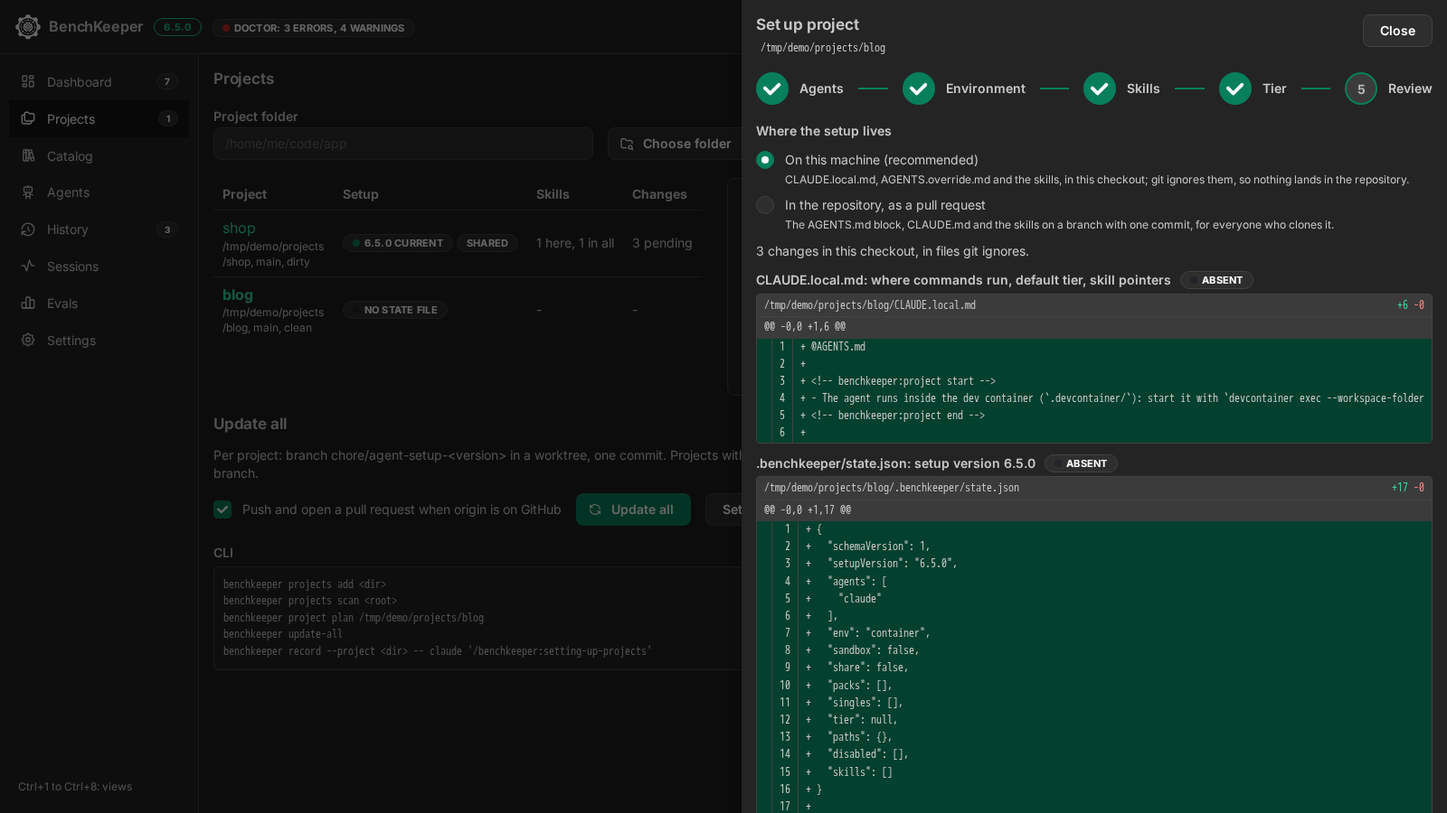
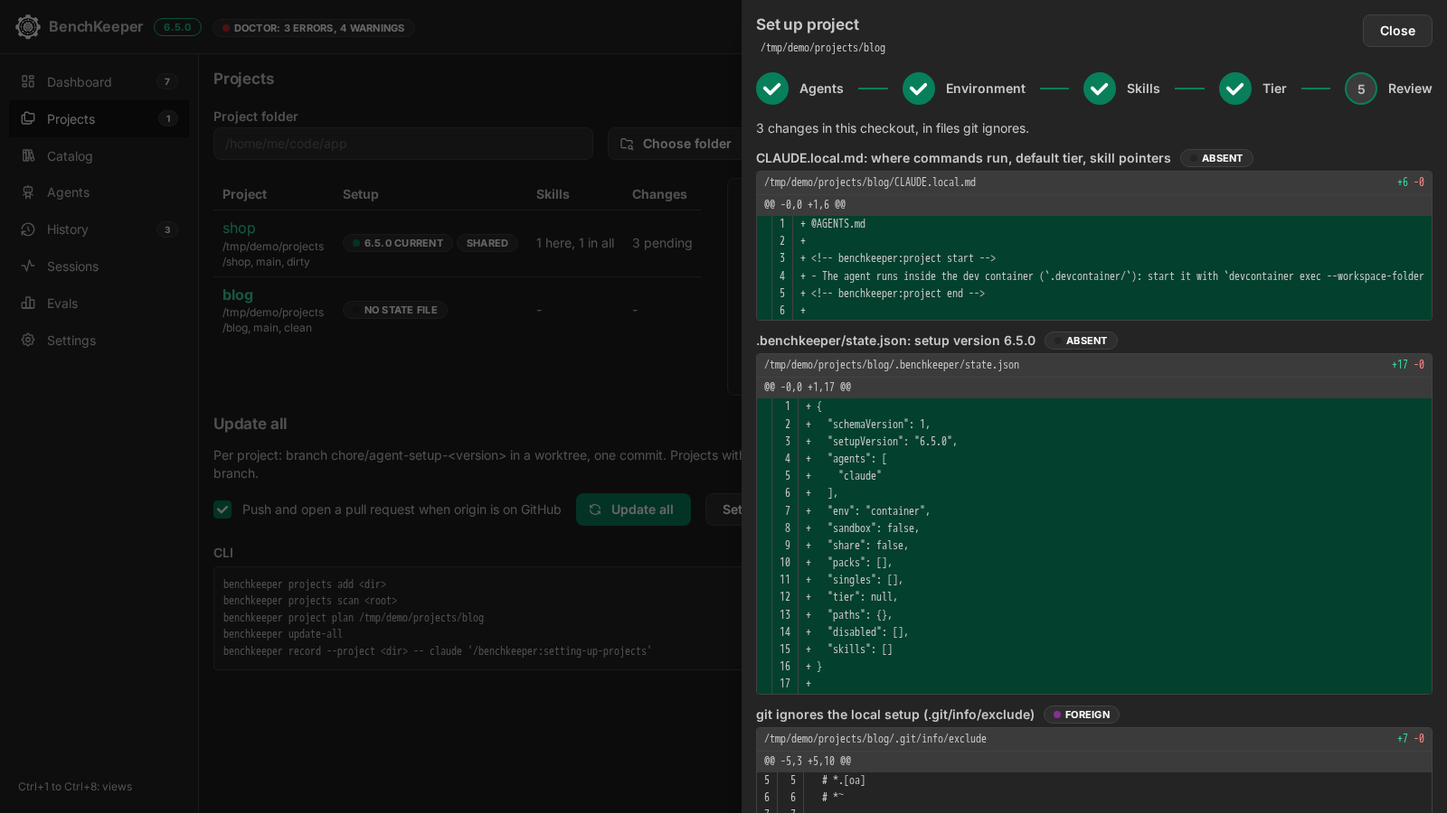
feat(app): confirmations, undo of local runs, setup order and retry (#179)
* feat(app): confirmations, undo of local runs, setup order and retry

Update all asks first when it opens pull requests, importing a pack over an
own pack asks and keeps the old file in the backup, a local Update all run
can be undone, Fix everything can stop after the current project, the
project setup asks where the setup lives first and says why Next is off,
a failed load offers Try again, the dashboard flow shows a failed check.

Refs #157

Assisted-by: generative AI

* fix(app): review findings for confirmations and pack backup

The old pack file is copied to the backup before the new one is written, the
Update all dialog says up to N, the setup keeps the user's environment
choice and says so, the pack file read reports its error, the stop flag is
read once per project.

Refs #157

Assisted-by: generative AI

Changed region(s): [[0.5, 0.1556, 1.0, 1.0]]

diff --git a/app/ui/views.jsx b/app/ui/views.jsx
@@ -1,11 +1,12 @@
 import { BarChart, LineChart } from '@mantine/charts';
-import { Anchor, Badge, Box, Button, Checkbox, Code, Drawer, FileButton, Grid, Group, List, NavLink, Paper, Progress, RingProgress, Select, Stack, Switch, Table, Text, TextInput, Timeline, Title, useComputedColorScheme } from '@mantine/core';
+import { Anchor, Badge, Box, Button, Checkbox, Code, Drawer, FileButton, Grid, Group, List, Modal, NavLink, Paper, Progress, RingProgress, Select, Stack, Switch, Table, Text, TextInput, Timeline, Title, useComputedColorScheme } from '@mantine/core';
 import { IconAdjustments, IconDeviceFloppy, IconDownload, IconFolderOpen, IconFolderSearch, IconFolders, IconListCheck, IconListNumbers, IconPackage, IconPlayerPlay, IconPlus, IconRefresh, IconTrash, IconUpload } from '@tabler/icons-react';
 import { useEffect, useRef, useState } from 'react';
 import { api } from './api.js';
 import { CancelJob, Cli, Plan, Section, StateBadge, useJob } from './parts.jsx';
 import { RunPanel, StatusIcon, note, runTitle, when } from './run.jsx';
-import { DoctorTable, FixEverythingButton, UpdateResults, updateProjects } from './fix.jsx';
+import { DoctorTable, FixEverythingButton, UpdateResults } from './fix.jsx';
+import { updateProjects } from './update.js';
 import { OneRunButtons } from './onerun.jsx';
 import { ProjectSetup } from './setup.jsx';
 import { Dot, Loading, MOD, Note, RANK, STATE_COLOR, SplitView, download, go, groupBy, href, icon, useApi } from './shell.jsx';
@@ -100,9 +101,9 @@ export function Dashboard({ overview, doctor, history, params }) {
   const behind = o?.projects.filter((p) => p.setupVersion !== o.version).length ?? 0;
   const nodes = [
     { label: 'Agents detected', value: `${agents.length} installed`, status: agents.length ? 'ok' : 'problem', href: href('agents') },
-    { label: 'Global setup', value: inv.data ? `${attention.length} need attention` : 'checking', status: attention.length ? 'attention' : 'ok', href: href('agents', { plan: '1' }) },
+    { label: 'Global setup', value: inv.data ? `${attention.length} need attention` : inv.error ? 'check failed' : 'checking', status: inv.error ? 'problem' : attention.length ? 'attention' : 'ok', href: href('agents', { plan: '1' }) },
     { label: 'Projects', value: `${o?.projects.length ?? 0} registered, ${behind} behind`, status: behind ? 'attention' : 'ok', href: href('projects') },
-    { label: 'Doctor', value: doctor.data ? `${errors} errors, ${warnings} warnings` : 'checking', status: errors ? 'problem' : warnings ? 'attention' : 'ok', href: href('dashboard', { panel: 'doctor' }) },
+    { label: 'Doctor', value: doctor.data ? `${errors} errors, ${warnings} warnings` : doctor.error ? 'check failed' : 'checking', status: doctor.error || errors ? 'problem' : warnings ? 'attention' : 'ok', href: href('dashboard', { panel: 'doctor' }) },
   ];
   return (
     <Stack gap="xl">
@@ -179,7 +180,10 @@ function PackBuilder({ opened, onClose, skills, onRemove, onSaved }) {
 function Packs({ packs, onChange }) {
   const [error, setError] = useState(null);
   const [file, setFile] = useState(0);
+  // A pack file whose id is an own pack's: asked first, the old file goes to the backup.
+  const [replace, setReplace] = useState(null);
   const run = (f) => async (...a) => { setError(null); try { await f(...a); onChange(); } catch (e) { setError(e.message); } };
+  const importText = run(async (text) => { setReplace(null); await api('/api/packs', { action: 'import', text }); setFile((n) => n + 1); });
   return (
     <Section title="Packs">
       {error && <Note color="red" title="Failed">{error}</Note>}
@@ -205,10 +209,27 @@ function Packs({ packs, onChange }) {
       </Table.ScrollContainer>
       <Group>
         <FileButton key={file} accept="application/json,.json"
-          onChange={run(async (f) => { if (!f) return; await api('/api/packs', { action: 'import', text: await f.text() }); setFile((n) => n + 1); })}>
+          onChange={async (f) => {
+            if (!f) return;
+            setError(null);
+            let text;
+            try { text = await f.text(); } catch (e) { setError(e.message); return; }
+            let id; try { id = JSON.parse(text).id; } catch { /* the server names what is wrong */ }
+            if (packs.some((p) => p.own && p.id === id)) setReplace({ id, text }); else importText(text);
+          }}>
           {(props) => <Button leftSection={icon(IconUpload)} variant="default" {...props}>Import pack file</Button>}
         </FileButton>
       </Group>
+      <Modal opened={!!replace} onClose={() => { setReplace(null); setFile((n) => n + 1); }} withCloseButton={false} attributes={{ content: { 'aria-label': `Replace pack ${replace?.id}?` } }}>
+        <Stack gap="sm">
+          <Title order={2} size="h4">Replace pack {replace?.id}?</Title>
+          <Text size="sm">An own pack with this id exists. Its file goes to the run backups, as when a pack is removed.</Text>
+          <Group justify="flex-end">
+            <Button variant="default" onClick={() => { setReplace(null); setFile((n) => n + 1); }}>Cancel</Button>
+            <Button onClick={() => importText(replace.text)}>Replace pack {replace?.id}</Button>
+          </Group>
+        </Stack>
+      </Modal>
     </Section>
   );
 }
@@ -602,7 +623,11 @@ export function Projects({ params, overview, refresh }) {
     setFound(list);
     setPick(list);
   });
-  const updateAll = act('update', async () => { await updateProjects(projects.data.map((p) => p.path), push, setProgress); reload(); });
+  const updateAll = act('update', async () => { setConfirmPrs(false); await updateProjects(projects.data.map((p) => p.path), push, setProgress); reload(); });
+  // Update all pushes a branch and opens a pull request for each project whose setup is shared or still committed.
+  const [confirmPrs, setConfirmPrs] = useState(false);
+  const prs = push ? (projects.data ?? []).filter((p) => p.share || p.committed).length : 0;
+  const plural = (n, w) => `${n} ${w}${n === 1 ? '' : 's'}`;
   return (
     <Stack gap="lg">
       <form onSubmit={(e) => { e.preventDefault(); act('add', async () => { await add(path); setPath(''); reload(); })(); }}>
@@ -648,14 +673,24 @@ export function Projects({ params, overview, refresh }) {
         ) : null} />
       ) : <Text>No projects. Add a folder set up with benchkeeper project apply, or scan a parent folder.</Text>)}</Loading>
       <Section title="Update all">
-        <Text size="sm">Per project: branch chore/agent-setup-&lt;version&gt; in a worktree, one commit. Projects with uncommitted changes are skipped. A project without a state file is set up step by step first, on the same kind of branch.</Text>
+        <Text size="sm">A local setup is written in the checkout. A shared one gets branch chore/agent-setup-&lt;version&gt; per project in a worktree, one commit. Projects with uncommitted changes are skipped. A project without a state file is set up step by step first.</Text>
         <Group>
           <Checkbox label="Push and open a pull request when origin is on GitHub" checked={push} onChange={(e) => setPush(e.currentTarget.checked)} />
-          <Button leftSection={icon(IconRefresh)} loading={busy === 'update'} disabled={!projects.data?.length} onClick={updateAll}>Update all</Button>
+          <Button leftSection={icon(IconRefresh)} loading={busy === 'update'} disabled={!projects.data?.length} onClick={prs ? () => setConfirmPrs(true) : updateAll}>Update all</Button>
           <Button variant="default" disabled={!fresh.length} onClick={() => setSetupPaths({ paths: fresh })}>Set up {fresh.length} new projects</Button>
         </Group>
         {progress && <UpdateResults progress={progress} extra={(r) => fresh.includes(r.path) && <Button size="xs" variant="default" ml="sm" onClick={() => setSetupPaths({ paths: [r.path] })}>Set up</Button>} />}
       </Section>
+      <Modal opened={confirmPrs} onClose={() => setConfirmPrs(false)} withCloseButton={false} attributes={{ content: { 'aria-label': `Open up to ${plural(prs, 'pull request')}?` } }}>
+        <Stack gap="sm">
+          <Title order={2} size="h4">Open up to {plural(prs, 'pull request')}?</Title>
+          <Text size="sm">{plural(prs, 'project')} with a shared setup get a branch pushed to origin and a pull request when origin is on GitHub. Projects with uncommitted changes are skipped.</Text>
+          <Group justify="flex-end">
+            <Button variant="default" onClick={() => setConfirmPrs(false)}>Cancel</Button>
+            <Button leftSection={icon(IconRefresh)} onClick={updateAll}>Update all and open up to {plural(prs, 'pull request')}</Button>
+          </Group>
+        </Stack>
+      </Modal>
       {setupPaths && <ProjectSetup paths={setupPaths.paths} change={setupPaths.change} push={push} onClose={() => { setSetupPaths(null); reload(); }} />}
       <Cli>{`benchkeeper projects add ${path || '<dir>'}\nbenchkeeper projects scan ${path || '<root>'}\nbenchkeeper project plan ${open ?? '<dir>'}\nbenchkeeper update-all${push ? '' : ' --no-push'}\nbenchkeeper record --project <dir> -- claude '/benchkeeper:setting-up-projects'`}</Cli>
     </Stack>

diff --git a/app/ui/setup.jsx b/app/ui/setup.jsx
@@ -100,9 +100,11 @@ function SetupSteps({ dir, push, onFinish, prefill }) {
     setA(st ? { agents: st.agents ?? [], env: st.env ?? 'container', sandbox: !!st.sandbox, packs: st.packs ?? [], skills: st.singles ?? [], tier: st.tier ?? '', share: st.share === true }
       : { agents: setup.data.agents.map((x) => x.id), env: setup.data.suggested.env?.id ?? 'container', sandbox: false, packs: setup.data.suggested.packs.map((p) => p.id), skills: [], tier: '', share: false });
   }, [setup.data]);
+  // An environment the user chose is kept: a suggestion fills it only while it still has its starting value.
+  const envTouched = useRef(false);
   const applyAdvice = (r, name, prefilled = false) => {
-    setAdvice({ ...r, name, prefilled });
-    setA((x) => ({ ...x, env: r.env?.id ?? x.env, packs: r.packs.length || r.skills.length ? r.packs.map((p) => p.id) : x.packs, skills: r.packs.length || r.skills.length ? r.skills.map((k) => k.name) : x.skills }));
+    setAdvice({ ...r, name, prefilled, keptEnv: envTouched.current && !!r.env && r.env.id !== a.env });
+    setA((x) => ({ ...x, env: envTouched.current ? x.env : r.env?.id ?? x.env, packs: r.packs.length || r.skills.length ? r.packs.map((p) => p.id) : x.packs, skills: r.packs.length || r.skills.length ? r.skills.map((k) => k.name) : x.skills }));
   };
   // A batch suggestion fills the form once, when it is ready and the form still has its starting values; after an
   // edit it waits as a note with Use it, so the user's choices stay.
@@ -142,9 +144,15 @@ function SetupSteps({ dir, push, onFinish, prefill }) {
               </Stack>
             </Checkbox.Group>
             {!s.agents.length && <Note color="yellow" mt="sm">No agent is installed on this machine.</Note>}
+            <Radio.Group mt="md" label="Where the setup lives" value={a.share ? 'share' : 'local'} onChange={(v) => set('share')(v === 'share')}>
+              <Stack gap="xs" mt="xs">
+                <Radio value="local" label="On this machine (recommended)" description="CLAUDE.local.md, AGENTS.override.md and the skills, in this checkout; git ignores them, so nothing lands in the repository." />
+                <Radio value="share" label="In the repository, as a pull request" description="The AGENTS.md block, CLAUDE.md and the skills on a branch with one commit, for everyone who clones it." />
+              </Stack>
+            </Radio.Group>
           </Stepper.Step>
           <Stepper.Step label="Environment">
-            <Radio.Group label="Where the agent and the project's commands run" value={a.env} onChange={set('env')}>
+            <Radio.Group label="Where the agent and the project's commands run" value={a.env} onChange={(v) => { envTouched.current = true; set('env')(v); }}>
               <Stack gap="xs" mt="xs">
                 {Object.entries(s.envs).map(([id, text]) => <Radio key={id} value={id} label={ENV_TITLE[id] ?? id} description={text ?? 'No instructions in AGENTS.md: the agent and all commands run on the host.'} />)}
               </Stack>
@@ -158,7 +166,7 @@ function SetupSteps({ dir, push, onFinish, prefill }) {
             {advice && (
               <Note color="blue" mb="md" title={advice.prefilled ? `Prefilled from ${advice.name}'s suggestion` : `Suggested by ${advice.name}`} withCloseButton onClose={() => setAdvice(null)}>
                 <List size="sm">
-                  {advice.env && <List.Item>Environment {ENV_TITLE[advice.env.id] ?? advice.env.id}: {advice.env.reason}</List.Item>}
+                  {advice.env && <List.Item>Environment {ENV_TITLE[advice.env.id] ?? advice.env.id}: {advice.env.reason}{advice.keptEnv && ' (your choice in the Environment step stays)'}</List.Item>}
                   {advice.packs.map((p) => <List.Item key={p.id}>Pack {p.id}: {p.reason}</List.Item>)}
                   {advice.skills.map((k) => <List.Item key={k.name}>Skill {k.name}: {k.reason}</List.Item>)}
                   {!advice.env && !advice.packs.length && !advice.skills.length && <List.Item>No pack or skill from the library fits; your choices stay.</List.Item>}
@@ -187,12 +195,6 @@ function SetupSteps({ dir, push, onFinish, prefill }) {
             </Radio.Group>
           </Stepper.Step>
           <Stepper.Step label="Review">
-            <Radio.Group mb="sm" label="Where the setup lives" value={a.share ? 'share' : 'local'} onChange={(v) => set('share')(v === 'share')}>
-              <Stack gap="xs" mt="xs">
-                <Radio value="local" label="On this machine (recommended)" description="CLAUDE.local.md, AGENTS.override.md and the skills, in this checkout; git ignores them, so nothing lands in the repository." />
-                <Radio value="share" label="In the repository, as a pull request" description="The AGENTS.md block, CLAUDE.md and the skills on a branch with one commit, for everyone who clones it." />
-              </Stack>
-            </Radio.Group>
             <Loading state={review} label="changes">{(p) => (
               <Stack gap="sm">
                 {p.warnings.map((w) => <Note key={w} color="yellow">{w}</Note>)}
@@ -219,6 +221,7 @@ function SetupSteps({ dir, push, onFinish, prefill }) {
           </Stepper.Completed>
         </Stepper>
         {error && <Note color="red" title="Failed">{error}</Note>}
+        {!a.agents.length && step < 5 && <Text size="sm" role="status">Pick at least one agent to continue.</Text>}
         <Group justify="space-between">
           <Button variant="default" disabled={step === 0 || !!result || busy} onClick={() => setStep(step - 1)}>Back</Button>
           {step < 5 && <Button disabled={!a.agents.length || (step === 4 && !review.data)} onClick={() => setStep(step + 1)}>{step === 4 ? 'Continue' : 'Next'}</Button>}

diff --git a/app/ui/fix.jsx b/app/ui/fix.jsx
@@ -1,7 +1,8 @@
 import { Anchor, Badge, Button, Checkbox, Code, Drawer, Group, List, Progress, Stack, Stepper, Table, Text, Title } from '@mantine/core';
-import { IconPlayerPlay, IconTool, IconWand } from '@tabler/icons-react';
-import { createContext, useContext, useEffect, useState } from 'react';
+import { IconPlayerPlay, IconPlayerStop, IconTool, IconWand } from '@tabler/icons-react';
+import { createContext, useContext, useEffect, useRef, useState } from 'react';
 import { api } from './api.js';
+import { updateProjects } from './update.js';
 import { ChangeList, RunProgress, defaultSelect, usePrerun } from './parts.jsx';
 import { Dot, Loading, Note, groupBy, href, icon, useApi } from './shell.jsx';
 
@@ -34,19 +35,6 @@ export function DoctorTable({ found, onAction }) {
       </Table>
     </Table.ScrollContainer>
   );
-}
-
-// Update all, one request per project, so the server's synchronous apply stays as it is and each row reports on its own.
-export async function updateProjects(paths, push, onProgress) {
-  const rows = paths.map((path) => ({ path, status: 'pending' }));
-  onProgress([...rows]);
-  for (const [i, row] of rows.entries()) {
-    rows[i] = { ...row, status: 'running' };
-    onProgress([...rows]);
-    try { rows[i] = (await api('/api/update-all', { paths: [row.path], push }))[0] ?? { path: row.path, status: 'stopped', reason: 'no longer registered' }; } catch (e) { rows[i] = { path: row.path, status: 'stopped', reason: e.message }; }
-    onProgress([...rows]);
-  }
-  return rows;
 }
 
 export function UpdateResults({ progress, extra }) {
@@ -107,7 +95,7 @@ function FixSteps({ version, doctor, onClose, setBusy }) {
         <Stepper.Step label="Projects">
           <Loading state={projects} label="projects">{() => (
             <Stack gap="sm">
-              <Text size="sm">A local setup is written in the checkout, in files git ignores. A setup still committed in the repository gets a pull request that removes it (<Code>chore/agent-setup-local</Code>); after you merge and pull, the next Update all writes it locally. A shared setup gets branch <Code>chore/agent-setup-{version}</Code> in a worktree with one commit, pushed with a pull request when origin is on GitHub.</Text>
+              <Text size="sm">A shared setup, or one still committed in the repository, gets a branch and a pull request when origin is on GitHub; after you merge the removal of a committed one and pull, the next Update all writes it locally.</Text>
               {list.length ? (
                 <>
                   <Group gap="xs">
@@ -165,9 +153,11 @@ function FixRun({ plan, select, paths, setBusy, onClose }) {
   const [error, setError] = useState(null);
   const [stopped, setStopped] = useState(null);
   const [finished, setFinished] = useState(false);
+  const [stopAsked, setStopAsked] = useState(false);
+  const control = useRef({ stop: false });
   const after = useApi(finished ? '/api/doctor' : null);
   const finish = () => { setFinished(true); setBusy(false); };
-  const projects = () => { setStopped(null); (paths.length ? updateProjects(paths, true, setProgress) : Promise.resolve()).then(finish); };
+  const projects = () => { setStopped(null); setStopAsked(false); control.current.stop = false; (paths.length ? updateProjects(paths, true, setProgress, control.current) : Promise.resolve()).then(finish); };
   const halt = (why) => { if (paths.length) setStopped(why); finish(); };
   useEffect(() => {
     if (!select?.length) { projects(); return; }
@@ -195,6 +185,11 @@ function FixRun({ plan, select, paths, setBusy, onClose }) {
         <Stack gap="xs">
           <Title order={3} size="h5">Projects</Title>
           <UpdateResults progress={progress} />
+          {!finished && (
+            <Group>
+              <Button size="xs" variant="default" leftSection={icon(IconPlayerStop)} disabled={stopAsked} onClick={() => { control.current.stop = true; setStopAsked(true); }}>{stopAsked ? 'Stopping after this project' : 'Stop after this project'}</Button>
+            </Group>
+          )}
         </Stack>
       )}
       {finished && (

diff --git a/app/ui/run.jsx b/app/ui/run.jsx
@@ -106,8 +106,8 @@ export function RunReport({ run: r, onUndo, busy, order = 3, output }) {
   const lines = useMemo(() => diffs.map(parseDiff).reduce((s, d) => ({ added: s.added + d.added, removed: s.removed + d.removed }), { added: 0, removed: 0 }), [r]);
   const statuses = Object.entries(groupBy(r.entries, (e) => e.reason === 'cancelled' ? 'cancelled' : e.status ?? 'running'));
   const firstOfStep = (e, i) => r.entries.findIndex((x) => x.step === e.step) === i;
-  // Update all committed in a worktree that is gone: its branch and pull request are the undo.
-  if (r.note?.updateAll) onUndo = null;
+  // Update all committed on a branch in a worktree that is gone: its branch and pull request are the undo. A local run is undone here.
+  if (r.note?.updateAll && r.note.branch) onUndo = null;
   return (
     <Stack gap="md" component="section" aria-label={`Run ${r.id}`}>
       <Group justify="space-between" align="flex-start" gap="sm">
@@ -120,7 +120,7 @@ export function RunReport({ run: r, onUndo, busy, order = 3, output }) {
           {onUndo && <Button size="xs" leftSection={icon(IconArrowBackUp)} variant="default" loading={busy} disabled={!r.entries.some(undoable)} onClick={() => onUndo({ run: r.id })}>Undo run</Button>}
         </Group>
       </Group>
-      {r.note?.updateAll && <Text size="sm">Committed on <Code>{r.note.branch}</Code>: to undo it, close its pull request or delete the branch.</Text>}
+      {r.note?.updateAll && r.note.branch && <Text size="sm">Committed on <Code>{r.note.branch}</Code>: to undo it, close its pull request or delete the branch.</Text>}
       <Group gap="xs" role="group" aria-label="Summary">
         {statuses.map(([s, es]) => <Badge key={s} variant="default" leftSection={<Dot color={STATUS[s]?.[1] ?? 'gray'} />}>{es.length} {s}</Badge>)}
         {!!diffs.length && <Badge variant="default">{diffs.length} file{diffs.length === 1 ? '' : 's'}, +{lines.added} -{lines.removed} lines</Badge>}

diff --git a/app/ui/shell.jsx b/app/ui/shell.jsx
@@ -1,4 +1,4 @@
-import { Alert, Badge, Box, Grid, Group, Loader, Paper, ScrollArea, Text } from '@mantine/core';
+import { Alert, Badge, Box, Button, Grid, Group, Loader, Paper, ScrollArea, Text } from '@mantine/core';
 import { IconAlertCircle, IconAlertTriangle, IconCircleCheck, IconInfoCircle } from '@tabler/icons-react';
 import { useCallback, useEffect, useState } from 'react';
 import { api } from './api.js';
@@ -52,7 +52,7 @@ export function useApi(path) {
 }
 
 export function Loading({ state, label, children }) {
-  if (state.error) return <Note color="red" title={`${label} failed`}>{state.error}</Note>;
+  if (state.error) return <Note color="red" title={`${label} failed`}><Group gap="sm">{state.error}{state.reload && <Button size="xs" variant="default" onClick={state.reload}>Try again</Button>}</Group></Note>;
   // No data yet also covers the first render after the path changes, before the effect marks it loading.
   if (state.data == null) return <Group gap="xs"><Loader size="sm" /><Text size="sm">Loading {label}</Text></Group>;
   return children(state.data);
@@ -66,7 +66,7 @@ export function SplitView({ list, detail, empty, span = 5 }) {
   return (
     <Grid gutter="lg">
       <Grid.Col span={{ base: 12, md: span }}>
-        <ScrollArea.Autosize mah="calc(100vh - 220px)" type="auto" offsetScrollbars>{list}</ScrollArea.Autosize>
+        <ScrollArea.Autosize mah={{ base: 'none', md: 'calc(100vh - 220px)' }} type="auto" offsetScrollbars>{list}</ScrollArea.Autosize>
       </Grid.Col>
       <Grid.Col span={{ base: 12, md: 12 - span }}>
         <Paper withBorder p="md" style={{ position: 'sticky', top: 'calc(var(--app-shell-header-height, 0px) + var(--mantine-spacing-md))' }}>

diff --git a/app/ui/update.js b/app/ui/update.js
@@ -1,0 +1,18 @@
+import { api } from './api.js';
+
+// Update all, one request per project, so the server's synchronous apply stays as it is and each row reports on its own.
+// control.stop set to true ends the run after the project that is running; the rest are skipped.
+export async function updateProjects(paths, push, onProgress, control) {
+  const rows = paths.map((path) => ({ path, status: 'pending' }));
+  onProgress([...rows]);
+  for (const [i, row] of rows.entries()) {
+    rows[i] = { ...row, status: 'running' };
+    onProgress([...rows]);
+    try { rows[i] = (await api('/api/update-all', { paths: [row.path], push }))[0] ?? { path: row.path, status: 'stopped', reason: 'no longer registered' }; } catch (e) { rows[i] = { path: row.path, status: 'stopped', reason: e.message }; }
+    const stop = control?.stop;
+    if (stop) for (let j = i + 1; j < rows.length; j++) rows[j] = { path: rows[j].path, status: 'skipped', reason: 'stopped by you' };
+    onProgress([...rows]);
+    if (stop) break;
+  }
+  return rows;
+}

diff --git a/app/README.md b/app/README.md
@@ -39,14 +39,14 @@ Runtime dependencies, pinned: [jsonc-parser](https://github.com/microsoft/node-j
 
 | View | Contents |
 |---|---|
-| Dashboard | install health of the global items, coverage per setup part and agent (a cell opens that agent's plan), setup flow, the last 6 runs, doctor findings with a link to the plan that fixes them. One-run setup (buttons on the Dashboard, entries in the command palette): Everything, Global only or Projects, with a checklist of the projects Update all does not leave alone (a shared setup, one still committed or no repository stay with Update all). One start form and one consent for the agent suggestion sessions (read only, one at a time) of the projects without a setup; one progress bar with a line per item (waiting, running, ready, failed with the reason, cancelled); one review page with a section for the global plan and one per project, a checkbox per section and per change, each diff behind a button, and the project's answers (agents, environment, packs, tier) editable in place, which builds its plan again; then one apply job with progress per section and a link to each run in History for undo. A failed suggestion or plan shows its reason and leaves the rest, a failed section leaves the others. Cancel during preparation stops the running suggestion session and keeps what is ready for review; during the apply it stops after the change that runs. Fix everything walks through four steps (the global plan, the projects behind or with pending changes, none checked at first, the doctor findings left to do by hand, a summary) and then applies the global plan and runs Update all with a pull request for each checked project. A global setup that fails or is cancelled leaves the projects unless you start them anyway; the doctor runs again at the end. It stays open over other views until the run is over |
-| Projects | registered projects with setup version, skills per chosen agent (in the project, and in all with its global and plugin skills), pending changes, tree state and branch; per project its plan, skill switches and doctor findings; add, scan a parent folder, Update all with progress per project. A project without a state file is set up step by step (agents, environment with the dev container as default, packs and skills with suggestions from its files, tier, review with where the setup lives: on this machine, the default, or in the repository as a branch with one commit and a pull request), one project after the other; Prefill all with an agent, on the first project of a batch, runs one suggestion session per project after one consent, one at a time with a state per project (waiting, running, ready, failed, cancelled); each project's steps then start from its suggestion, still reviewed and applied one by one (a reload loses suggestions not yet used). Change setup reopens these steps from the state file; Open folder shows the project in the file manager. Suggest with an agent asks first, then runs one read-only session (Claude Code `-p --restricted --strict-mcp-config` with Read, Grep and Glob; Codex `exec` with a permission profile that reads only the project, the system's minimal paths and Codex itself, writes nothing, and runs without web search and MCP servers) in the project on your subscription; only library packs, skills and environments from its answer are taken |
-| Catalog | library skills with filters, skill detail with eval results, pack builder (warns about overlapping descriptions), packs with export, import and removal |
+| Dashboard | install health of the global items, coverage per setup part and agent (a cell opens that agent's plan), setup flow, the last 6 runs, doctor findings with a link to the plan that fixes them. One-run setup (buttons on the Dashboard, entries in the command palette): Everything, Global only or Projects, with a checklist of the projects Update all does not leave alone (a shared setup, one still committed or no repository stay with Update all). One start form and one consent for the agent suggestion sessions (read only, one at a time) of the projects without a setup; one progress bar with a line per item (waiting, running, ready, failed with the reason, cancelled); one review page with a section for the global plan and one per project, a checkbox per section and per change, each diff behind a button, and the project's answers (agents, environment, packs, tier) editable in place, which builds its plan again; then one apply job with progress per section and a link to each run in History for undo. A failed suggestion or plan shows its reason and leaves the rest, a failed section leaves the others. Cancel during preparation stops the running suggestion session and keeps what is ready for review; during the apply it stops after the change that runs. Fix everything walks through four steps (the global plan, the projects behind or with pending changes, none checked at first, the doctor findings left to do by hand, a summary) and then applies the global plan and runs Update all with a pull request for each checked project; "Stop after this project" skips the rest. A global setup that fails or is cancelled leaves the projects unless you start them anyway; the doctor runs again at the end. It stays open over other views until the run is over |
+| Projects | registered projects with setup version, skills per chosen agent (in the project, and in all with its global and plugin skills), pending changes, tree state and branch; per project its plan, skill switches and doctor findings; add, scan a parent folder, Update all with progress per project (it asks first, naming the count, when it opens pull requests). A project without a state file is set up step by step (agents with where the setup lives: on this machine, the default, or in the repository as a branch with one commit and a pull request; environment with the dev container as default, packs and skills with suggestions from its files, tier, review), one project after the other; Prefill all with an agent, on the first project of a batch, runs one suggestion session per project after one consent, one at a time with a state per project (waiting, running, ready, failed, cancelled); each project's steps then start from its suggestion, still reviewed and applied one by one (a reload loses suggestions not yet used). Change setup reopens these steps from the state file; Open folder shows the project in the file manager. Suggest with an agent asks first, then runs one read-only session (Claude Code `-p --restricted --strict-mcp-config` with Read, Grep and Glob; Codex `exec` with a permission profile that reads only the project, the system's minimal paths and Codex itself, writes nothing, and runs without web search and MCP servers) in the project on your subscription; only library packs, skills and environments from its answer are taken |
+| Catalog | library skills with filters, skill detail with eval results, pack builder (warns about overlapping descriptions), packs with export, import (asks before it replaces an own pack, the old file goes to `backup/packs/`) and removal |
 | Agents | detected agents and the global plan for the chosen ones. A skills CLI install in a plan (here, in a project's plan and in setup review) runs first in a scratch folder with its own `HOME` and `CODEX_HOME`, `CLAUDE_CONFIG_DIR` and `XDG_*` unset, so the plan shows the files it would write (mapped back to the folders those variables point to); links are copied as what they point to, npm keeps your cache and `.npmrc`, git your global config. Three run at a time; a result is kept 10 minutes or until the app changes files, and an apply stops a rehearsal still running. Apply shows each change as it runs, with the command output, then the run report in place of the plan. Cancel skips the changes not started yet |
 | Sessions | the sessions board (see `board`), scanned when the view opens, with progress and Rescan; each scan also rewrites `board.html`, which the tier band's board button opens |
 | History | runs by day; the run report: counts by status and changed lines, each change with its diff (line numbers, unified or split, created and deleted files unified), command and output, or session files, undo of a step or the whole run |
 | Evals | per agent and model (the newest by default): the latest miss and false-trigger rate of each target, worst first, and each target's rates over time; Run evals plans the targets and the number of agent sessions, then starts them with progress per session; Cancel stops the running session, finished targets keep their results |
-| Settings | profile export and import, keyboard shortcuts, config files |
+| Settings | profile export and import, keyboard shortcuts (the `/` key can be switched off), config files |
 
 The view is part of the URL (`#/projects?path=<dir>`), so a reload keeps it. "Choose folder" opens the system dialog: `osascript` on macOS, `zenity`, then `kdialog` on Linux. With none of them, on Windows, on Linux without a display, or after a cancel, type the path. The server blocks other requests while the dialog is open.
 
